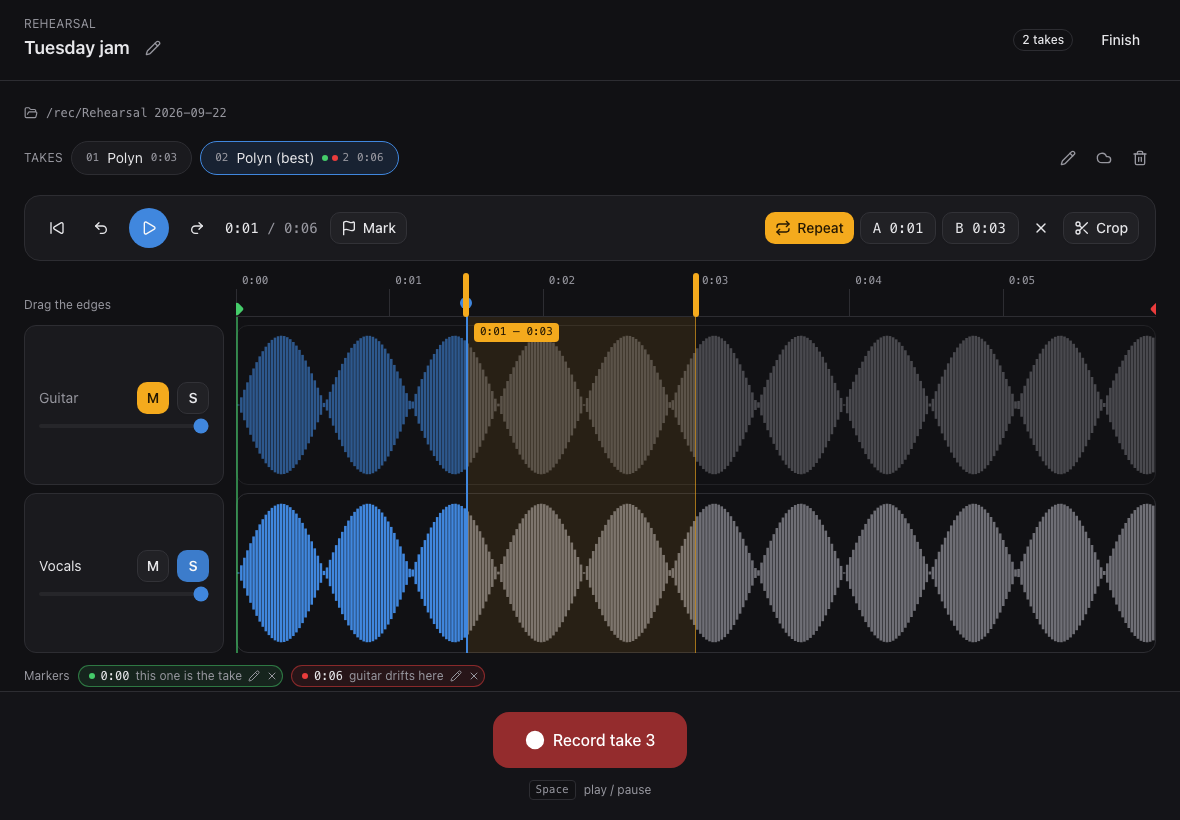
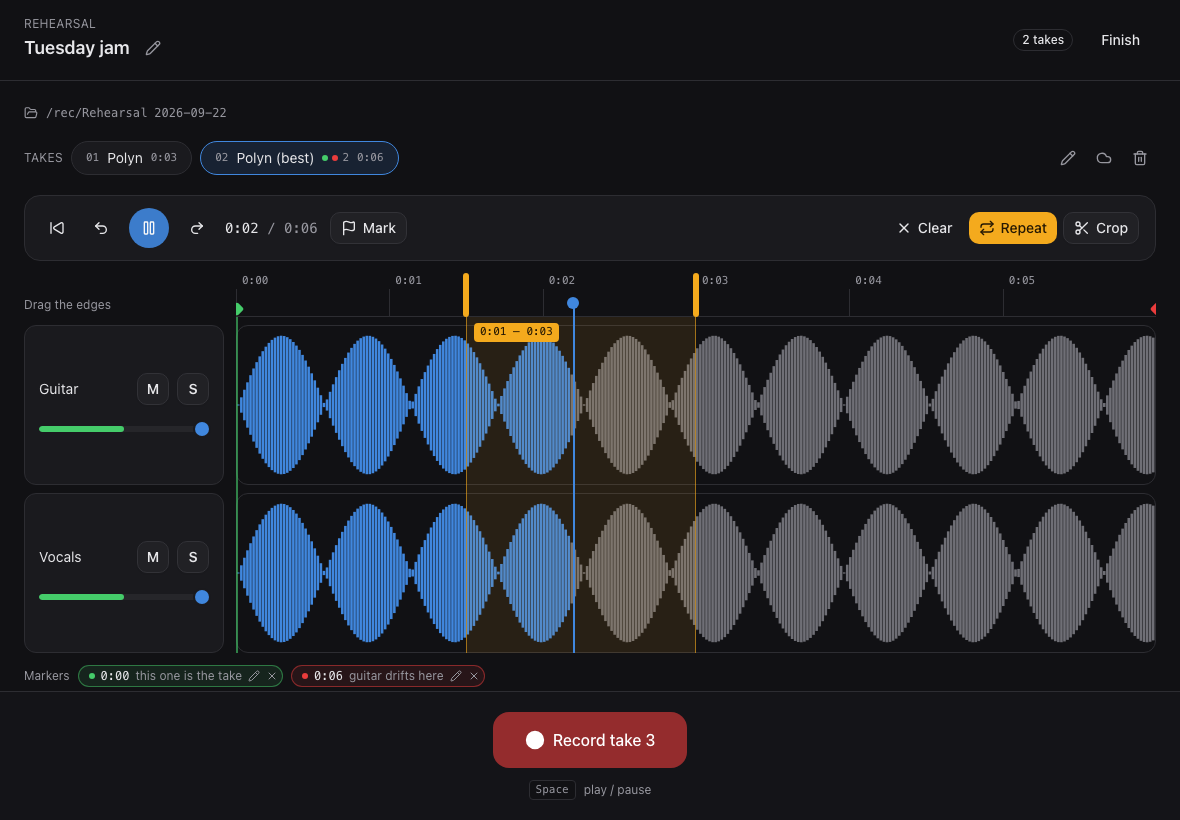
Refresh the player screenshots, and stop truncating the zoom read-out
The pictures in the readme still had A and B in the transport and the
old lane cells. Regenerating them turned up something the suite could
not: at the closest zoom the window read-out is cut off mid-word —
"0:04 - 0:06 · cl…" — because it does not fit the gutter beside the
button on one line. It wraps now.

The player shot is taken while a take plays, because the level lives
inside the fader and a paused one shows an empty fader saying nothing
about it.

diff --git a/ui/src/components/Timeline.tsx b/ui/src/components/Timeline.tsx
@@ -264,7 +264,10 @@ export function Timeline({
         >
           {player.view ? (
             <>
-              <span className="truncate">
+              {/* Wraps rather than truncates: "0:04 - 0:06 · closest" does
+                  not fit the gutter beside the button on one line, and a
+                  read-out cut off mid-word says less than no read-out. */}
+              <span className="leading-tight">
                 <span className="tnum">
                   {formatMMSS(from)} – {formatMMSS(to)}
                 </span>

diff --git a/tests/test_interface.py b/tests/test_interface.py
@@ -887,6 +887,9 @@ def main():
         page.wait_for_timeout(700)
         ok("the meter follows the take while it plays",
            int(meter.get_attribute("aria-valuenow")) > 0)
+        # Taken here, playing, because the level lives inside the fader: a
+        # paused player shows an empty one and says nothing about it.
+        page.screenshot(path=str(SHOTS / "54-player.png"))
         page.click("button[aria-label='Mute Guitar']")
         page.wait_for_timeout(400)
         ok("and reads nothing at all on a muted track",
@@ -903,7 +906,6 @@ def main():
         page.wait_for_timeout(300)
         ok("mute reached Python", calls("player_set_muted")[-1]["args"] == ["Guitar", True])
         ok("solo reached Python", calls("player_set_solo")[-1]["args"] == ["Vocals"])
-        page.screenshot(path=str(SHOTS / "54-player.png"))
 
         print("\n[9c] Zooming the timeline")
         # Fifteen seconds of a nine-minute take is twenty pixels wide: the

diff --git a/README.md b/README.md
@@ -55,7 +55,7 @@ shares one timeline, so where two of them parted company is something you can
 point at rather than guess. Drag across it to set the repeat region, and zoom
 into it with the wheel when the spot needs finding exactly.
 
-![A take on the timeline, with the repeat region drawn across both tracks](docs/screenshots/player-markers.png)
+![A take playing, with the repeat region drawn across both tracks and each fader showing how loud its track is coming out](docs/screenshots/player-markers.png)
 
 ![A take zoomed in](docs/screenshots/zoom.png)
 
